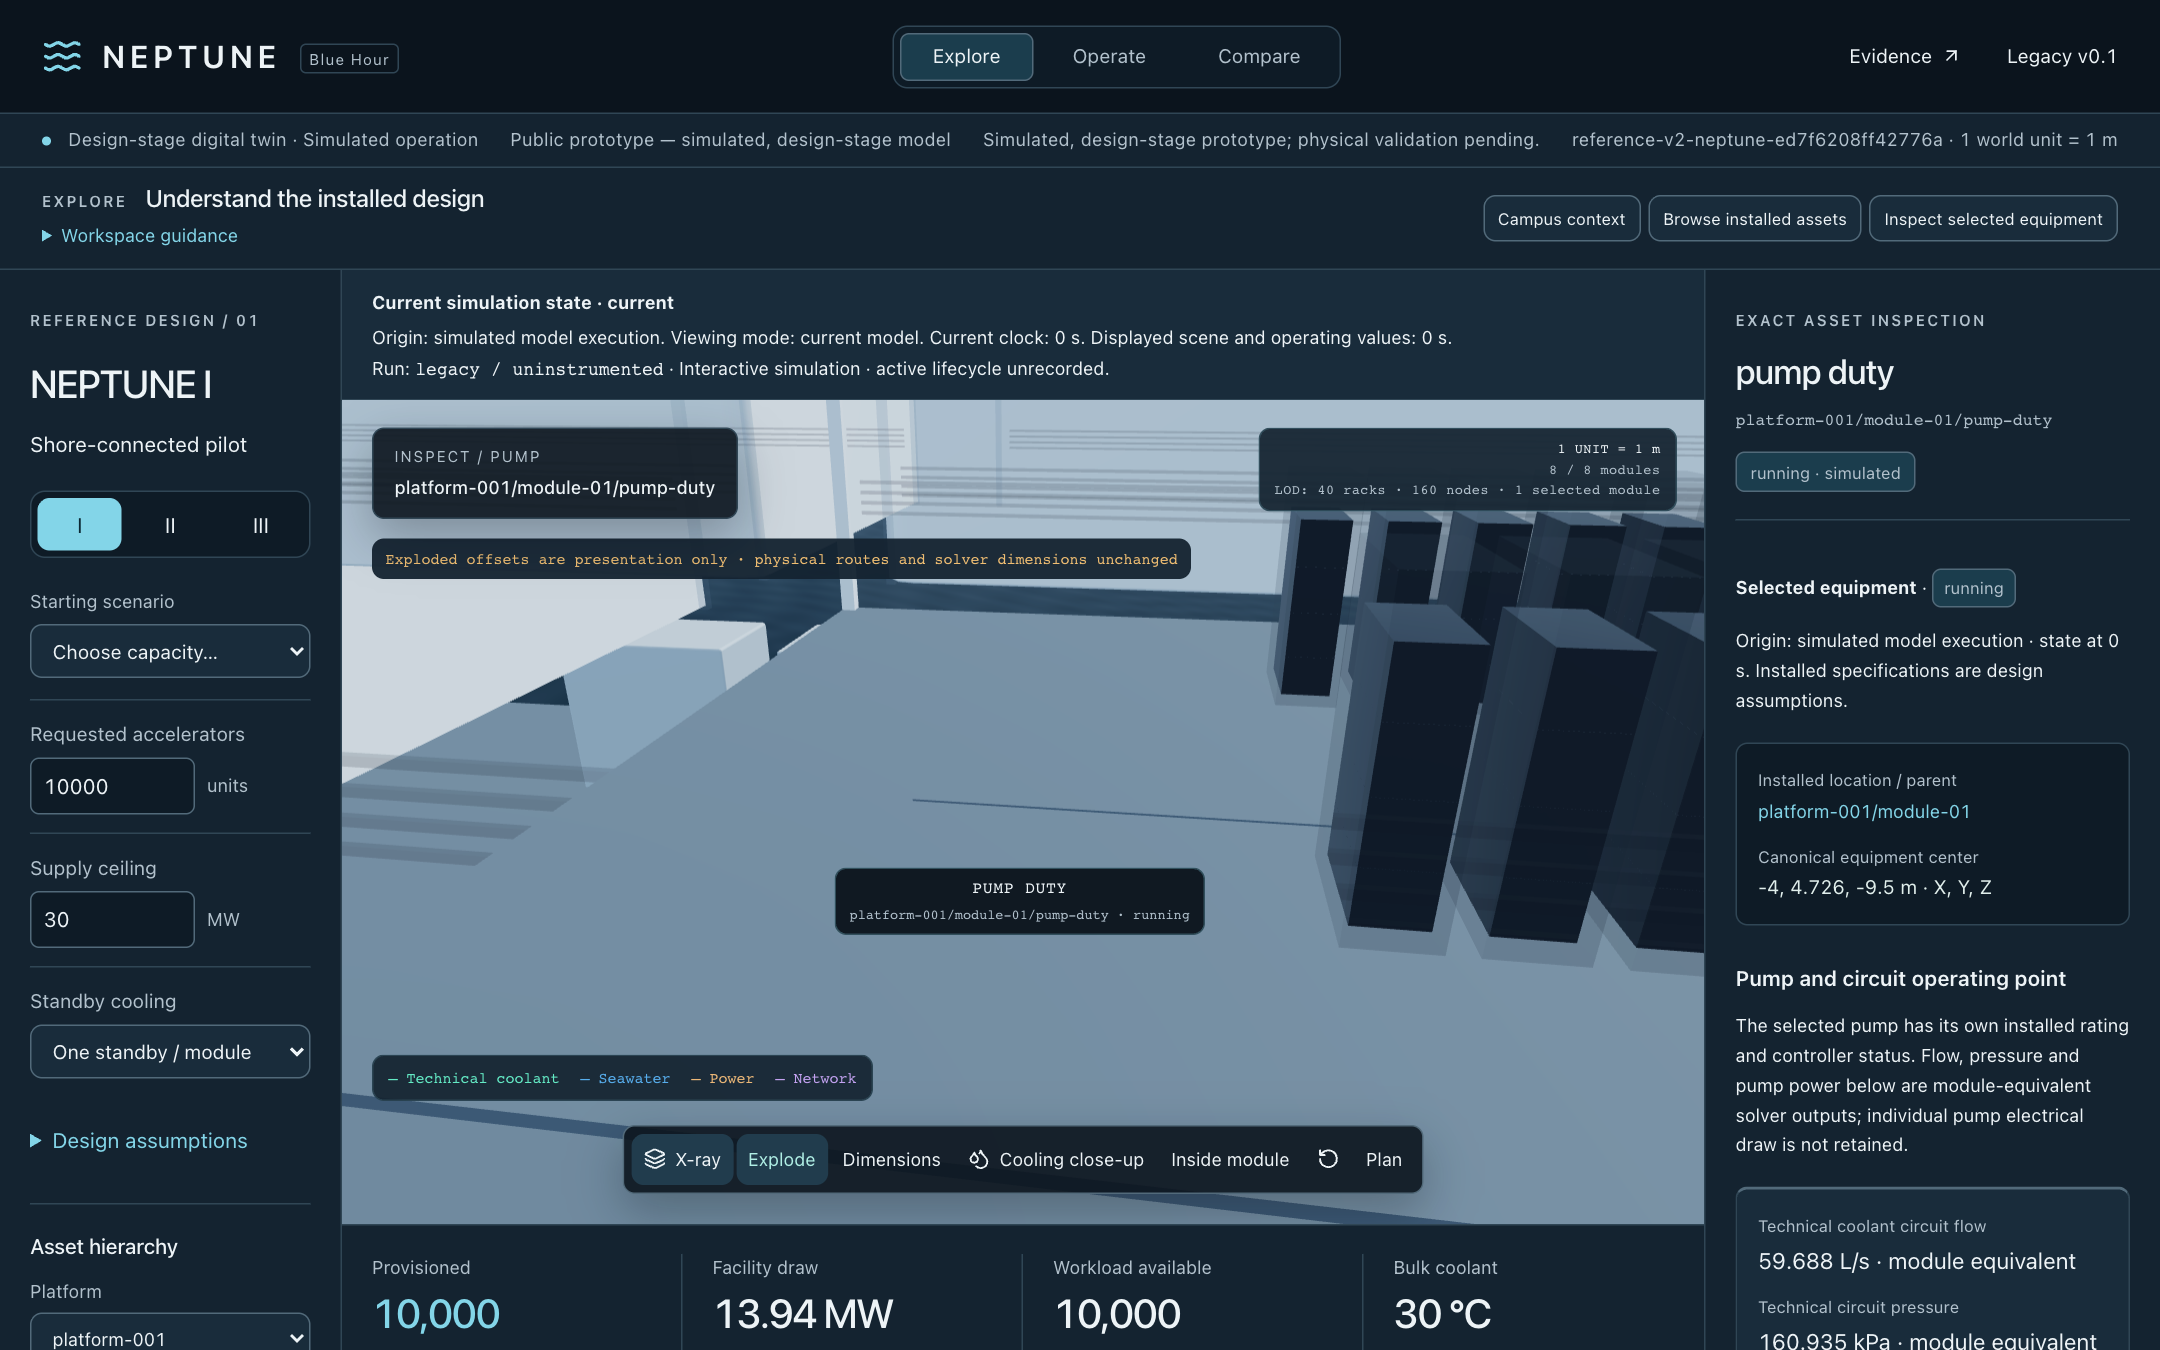
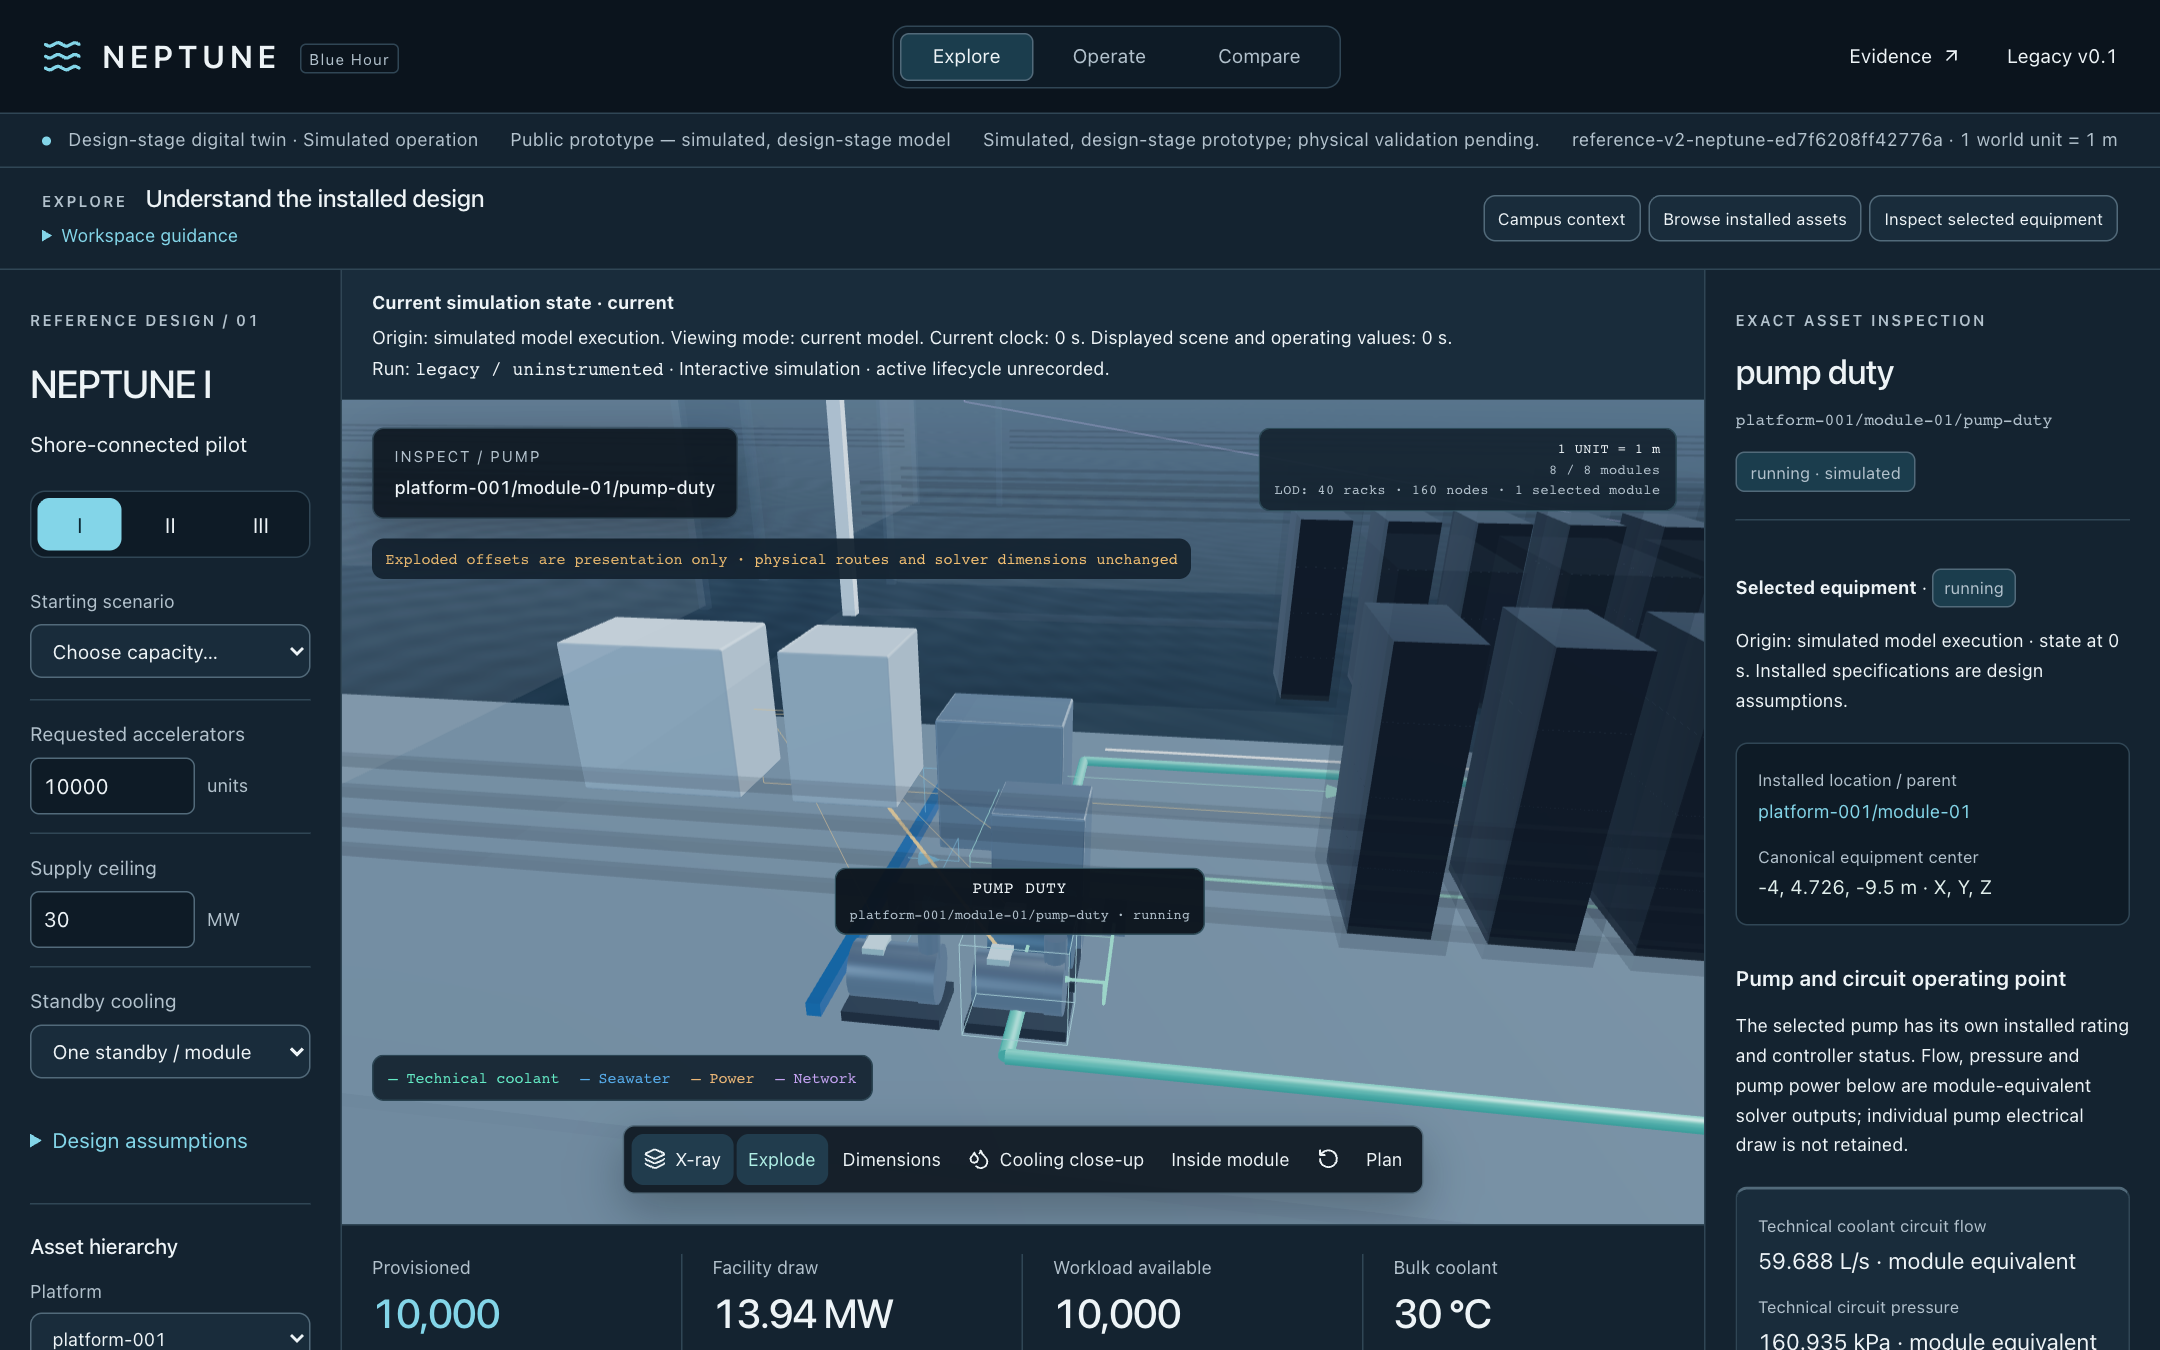
fix(scene): refresh warmed material shaders when reveal changes opacity

diff --git a/tests/browser/visual-v1.spec.ts b/tests/browser/visual-v1.spec.ts
@@ -1,5 +1,7 @@
 import { test, expect, type Page, type TestInfo } from '@playwright/test';
 import fs from 'node:fs/promises';
+import sharp from 'sharp';
+import { PerspectiveCamera, Vector3 } from 'three';
 import { normalizeProject, parseProject, type CurrentProject } from '../../src/twin/persistence/project';
 import { expectNoHorizontalOverflow } from './layout';
 
@@ -58,6 +60,58 @@ test('VIS1 default campus and systems views preserve the complete normalized pro
   });
   await expect(page.getByText('Simulated, design-stage prototype; physical validation pending.', { exact: true }).first()).toBeVisible();
   await capture(page, info, 'visual-v1-campus-1440');
+  // Exercise a shader that already rendered opaque before toggling its transparency.
+  // Use the canonical roof position and the real camera; no platform-specific golden image.
+  const opaqueScene = await page.evaluate(() => window.__NEPTUNE_TWIN_SCENE__!);
+  const canvas = page.locator('canvas');
+  const canvasBounds = await canvas.boundingBox();
+  if (!canvasBounds) throw Error('Expected the visible campus canvas bounds.');
+  const cameraPosition = new Vector3().fromArray(opaqueScene.camera);
+  const roof = before.designSnapshot.assets
+    .filter(asset => asset.type === 'module' && !duty.startsWith(`${asset.id}/`))
+    .sort((left, right) => new Vector3(...left.positionM).distanceToSquared(cameraPosition)
+      - new Vector3(...right.positionM).distanceToSquared(cameraPosition))[0];
+  expect(roof, 'The configured campus must include a nonselected roof.').toBeDefined();
+  const projection = new PerspectiveCamera(46, canvasBounds.width / canvasBounds.height, 0.1, 10000);
+  projection.position.copy(cameraPosition);
+  projection.lookAt(new Vector3().fromArray(opaqueScene.target));
+  projection.updateMatrixWorld();
+  // Offset within the canonical roof to avoid the center seam and its metal trim.
+  const roofSampleM: [number, number, number] = [roof.positionM[0] + 1, roof.positionM[1] + roof.dimensionsM[1] / 2, roof.positionM[2] + 0.5];
+  const roofCenter = new Vector3(...roofSampleM).project(projection);
+  const opaquePixels = await canvas.screenshot({ scale: 'css' });
+  const imageSize = await sharp(opaquePixels).metadata();
+  const region = {
+    left: Math.round((roofCenter.x + 1) / 2 * imageSize.width!) - 5,
+    top: Math.round((1 - roofCenter.y) / 2 * imageSize.height!) - 5,
+    width: 10, height: 10,
+  };
+  expect(region.left).toBeGreaterThanOrEqual(0);
+  expect(region.top).toBeGreaterThanOrEqual(0);
+  expect(region.left + region.width).toBeLessThanOrEqual(imageSize.width!);
+  expect(region.top + region.height).toBeLessThanOrEqual(imageSize.height!);
+  const luminance = async (pixels: Buffer) => {
+    const { data, info: sample } = await sharp(pixels).extract(region).removeAlpha().raw().toBuffer({ resolveWithObject: true });
+    let sum = 0;
+    for (let index = 0; index < data.length; index += sample.channels) {
+      sum += 0.2126 * data[index] + 0.7152 * data[index + 1] + 0.0722 * data[index + 2];
+    }
+    return sum / (sample.width * sample.height);
+  };
+  await button(page, 'X-ray').click();
+  await expect(button(page, 'X-ray')).toHaveAttribute('aria-pressed', 'true');
+  await page.waitForTimeout(300);
+  const transparentPixels = await canvas.screenshot({ scale: 'css' });
+  const opaqueLuminance = await luminance(opaquePixels), transparentLuminance = await luminance(transparentPixels);
+  await info.attach('visual-v1-warmed-opaque-canvas', { body: opaquePixels, contentType: 'image/png' });
+  await info.attach('visual-v1-warmed-xray-canvas', { body: transparentPixels, contentType: 'image/png' });
+  await info.attach('visual-v1-roof-transparency', {
+    body: JSON.stringify({ assetId: roof.id, canonicalRoofM: roofSampleM, region, opaqueLuminance, transparentLuminance }),
+    contentType: 'application/json',
+  });
+  expect(opaqueLuminance - transparentLuminance, 'X-ray must visibly reveal the darker structure below an already rendered pearl roof.').toBeGreaterThan(10);
+  await expect.poll(() => page.evaluate(() => ({ camera: window.__NEPTUNE_TWIN_SCENE__!.camera, target: window.__NEPTUNE_TWIN_SCENE__!.target }))).toEqual({ camera: opaqueScene.camera, target: opaqueScene.target });
+  await button(page, 'X-ray').click();
   const desktopCamera = await page.evaluate(() => window.__NEPTUNE_TWIN_SCENE__!.camera);
   await page.setViewportSize({ width: 390, height: 844 });
   await button(page, 'Campus view').click();

diff --git a/src/scene/TwinScene.tsx b/src/scene/TwinScene.tsx
@@ -162,6 +162,7 @@ function Instances({
       }}
     >
       <meshStandardMaterial
+        key={opacity < 1 ? 'transparent' : 'opaque'}
         color="white"
         roughness={material.roughness}
         metalness={material.metalness}
@@ -291,6 +292,7 @@ function ModuleStructure({
     <mesh key={key} position={position} receiveShadow castShadow>
       <boxGeometry args={dimensions} />
       <meshStandardMaterial
+        key={opacity < 1 ? 'transparent' : 'opaque'}
         {...assetSurface(key === 'floor' || key === 'aisle' ? 'platform' : 'module')}
         color={stateColor(state, assetSurface(key === 'floor' || key === 'aisle' ? 'platform' : 'module').color)}
         transparent={opacity < 1}

diff --git a/docs/visuals/V1-BLUE-HOUR.md b/docs/visuals/V1-BLUE-HOUR.md
@@ -11,7 +11,7 @@ Pearl painted shells sit on graphite marine structure, with brushed silver cooli
 | Shared UI | `src/ui/visuals/tokens.css`, `src/ui/twin.css`: background `#0B141D`, panel `#142330`, primary `#EDF3F6`, secondary `#B2C1CC`, focus `#83D5E8`, warning `#F0BE72`, failure `#F27B79`. Opaque data surfaces, tabular numbers, visible focus, compact workspace guidance and mobile controls. |
 | Scene presets | `src/scene/visuals/materials.ts`: pearl `#E8EEF0`, silver `#AEBBC4`, structure `#273541`, water `#102735`. Paint metalness 0 / roughness .43; metal 1 / .32; deck .05 / .84; distinct cabinets/racks/inserts. These are artistic choices, not measured properties. |
 | Environment | `src/scene/visuals/DuskEnvironment.tsx`: procedural local sky and ocean, one 128px PMREM reflection map, hemisphere fill and two directional lights; no shadow maps or postprocessing. ACES tone mapping at exposure 1, linear working color and sRGB output; custom shaders use the same output conversion once. |
-| Existing geometry | `src/scene/TwinScene.tsx`: bounded bevels on instanced shells/cabinets, silver seams, per-family batches, per-instance state color, separate cyan selection edges. X-ray/exploded floors and aisles become translucent to expose cooling equipment. Existing white aisle accent is illustrative, not a measured indicator or new electrical load. |
+| Existing geometry | `src/scene/TwinScene.tsx`: bounded bevels on instanced shells/cabinets, silver seams, per-family batches, per-instance state color, separate cyan selection edges. X-ray/exploded floors and aisles become translucent to expose cooling equipment. Materials are recreated only when crossing opaque/transparent mode so a warmed opaque shader cannot suppress the reveal; the browser suite samples actual roof pixels after that transition. Existing white aisle accent is illustrative, not a measured indicator or new electrical load. |
 | Information hierarchy | `src/ui/TwinApp.tsx`, `src/ui/OperatorExperience.tsx`, `src/scene/twinScene.css`: selected identity/state and operating readings, optional workspace help, compact scene overlays, unchanged handlers and mounted owners. Technical coolant and seawater retain separate routes/legend and heat-exchanger boundary. |
 
 Normal primary/secondary text on the opaque panel measures 14.28:1 / 8.68:1; warning 7.84:1, failure 5.31:1, focus 9.63:1. Small scene overlays use 90–96% opaque dark surfaces. This is a targeted contrast review, not a complete accessibility certification.
